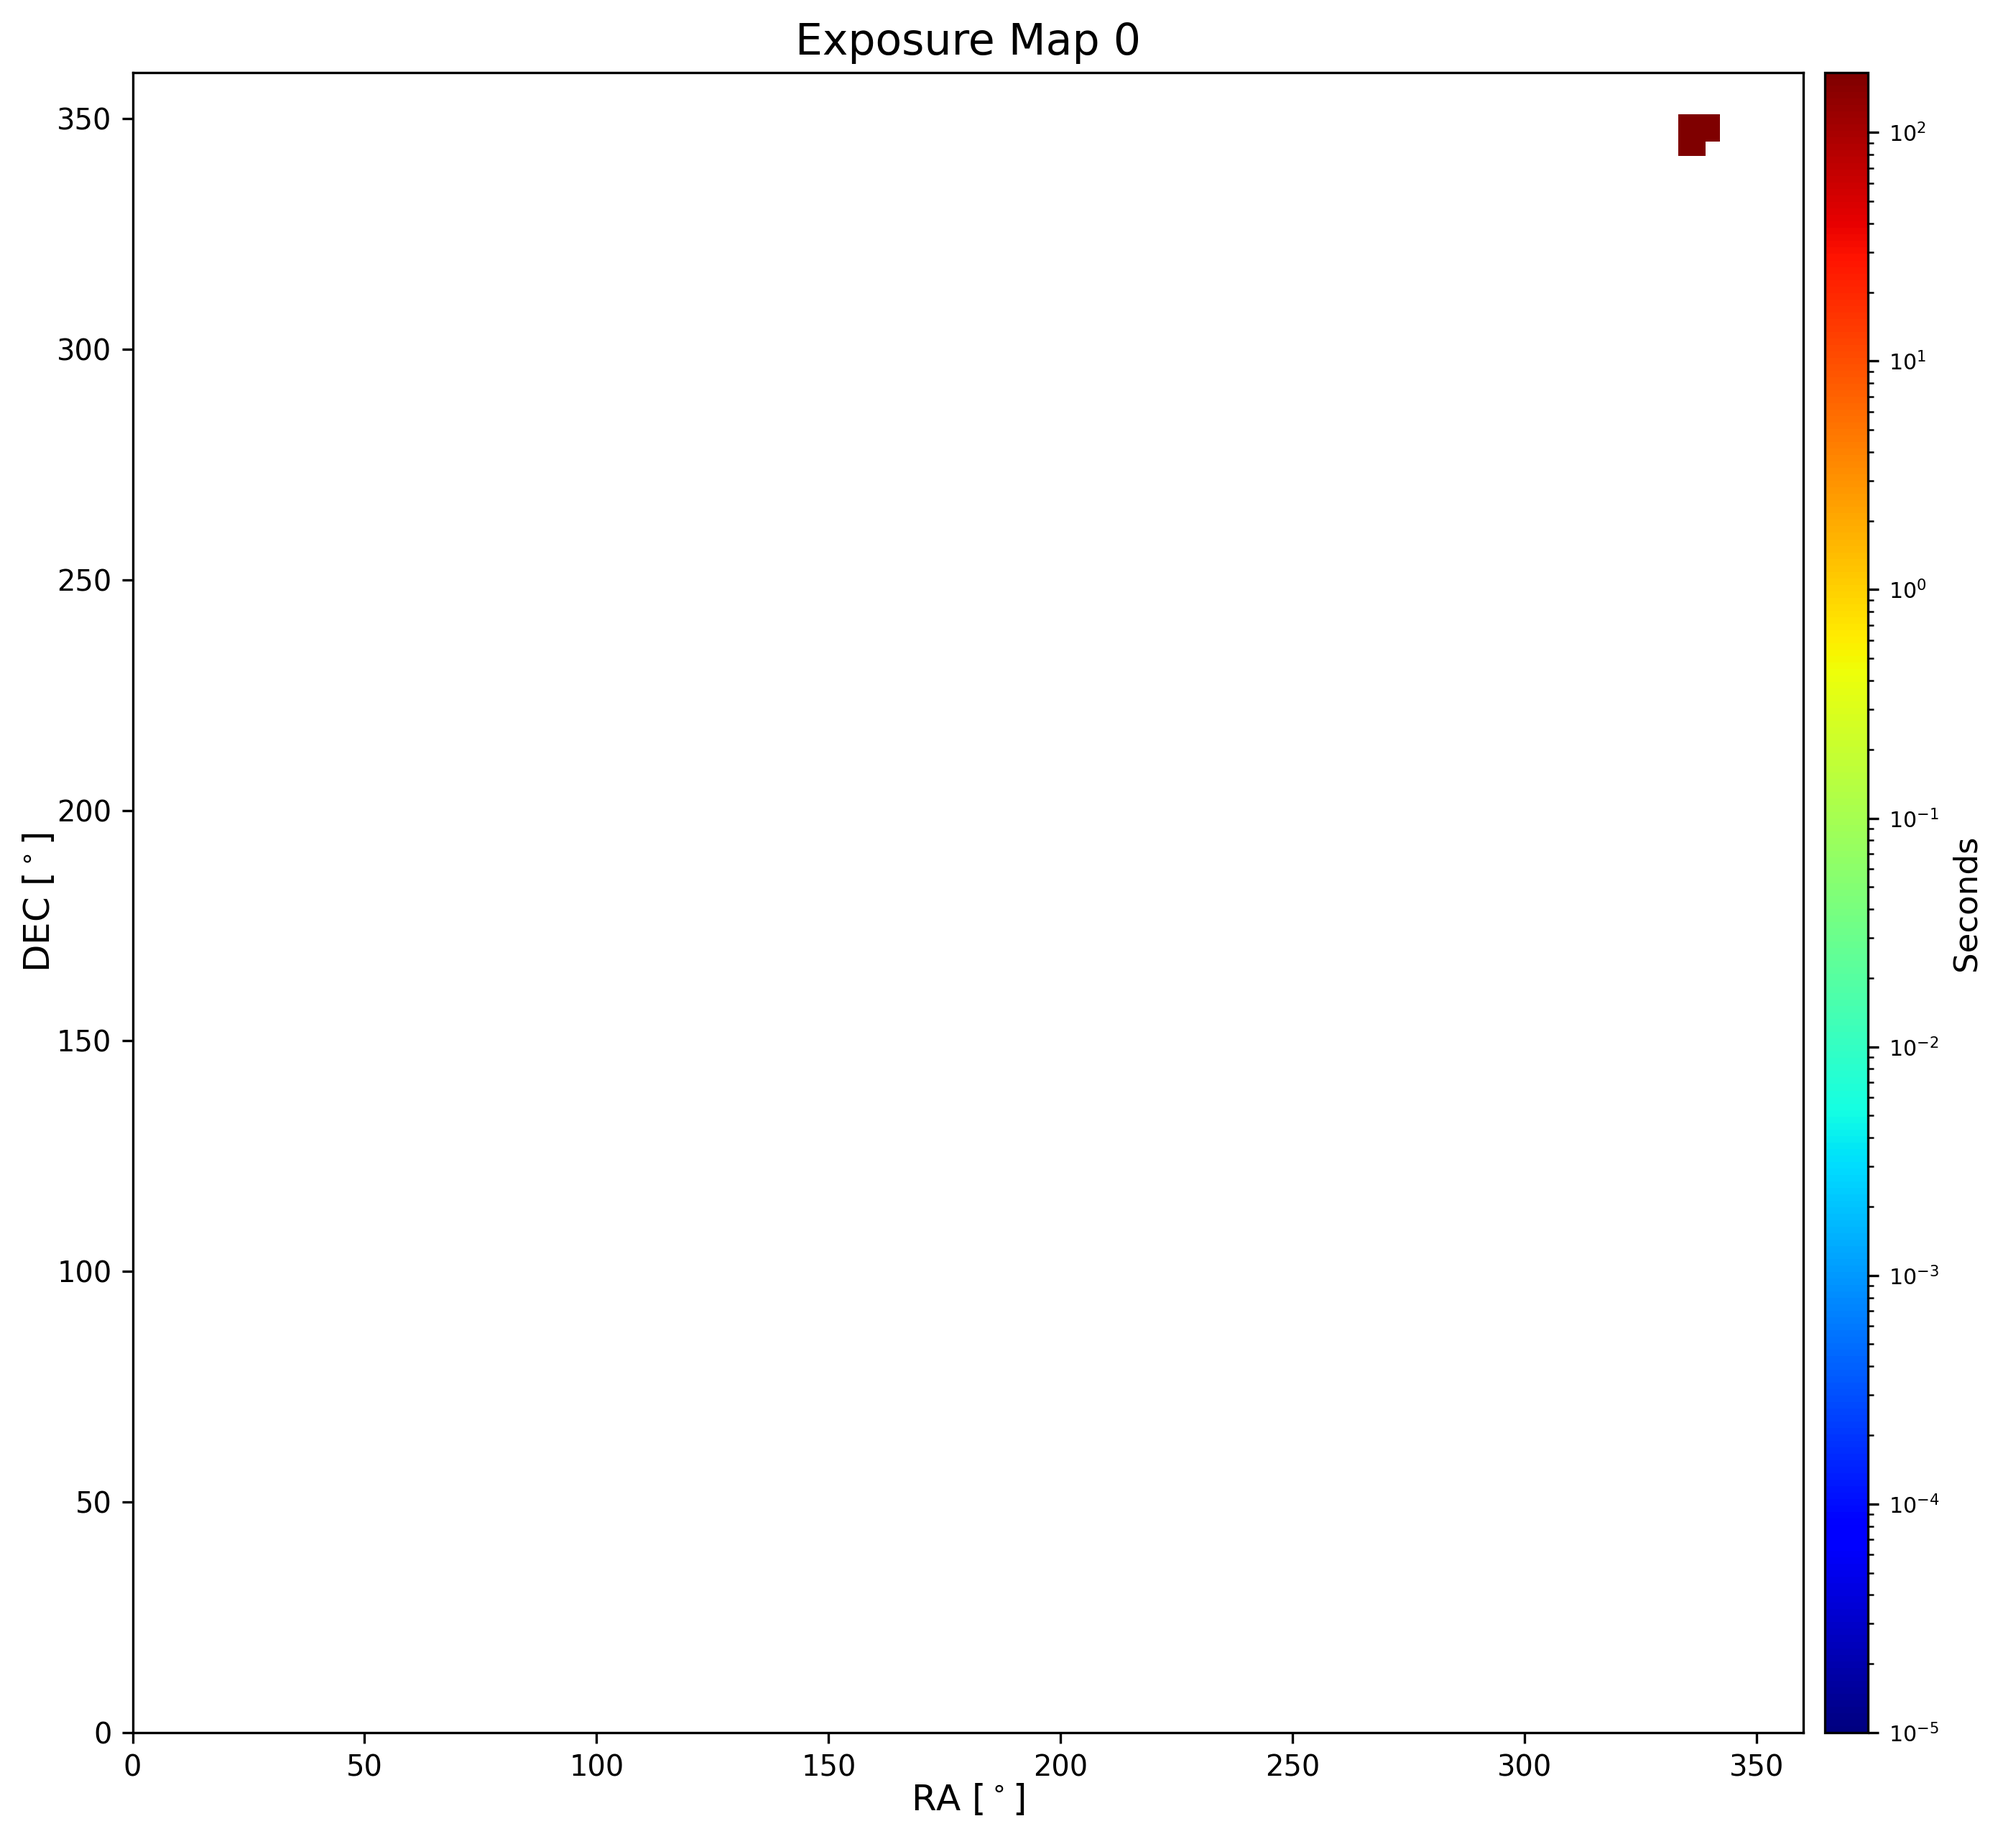
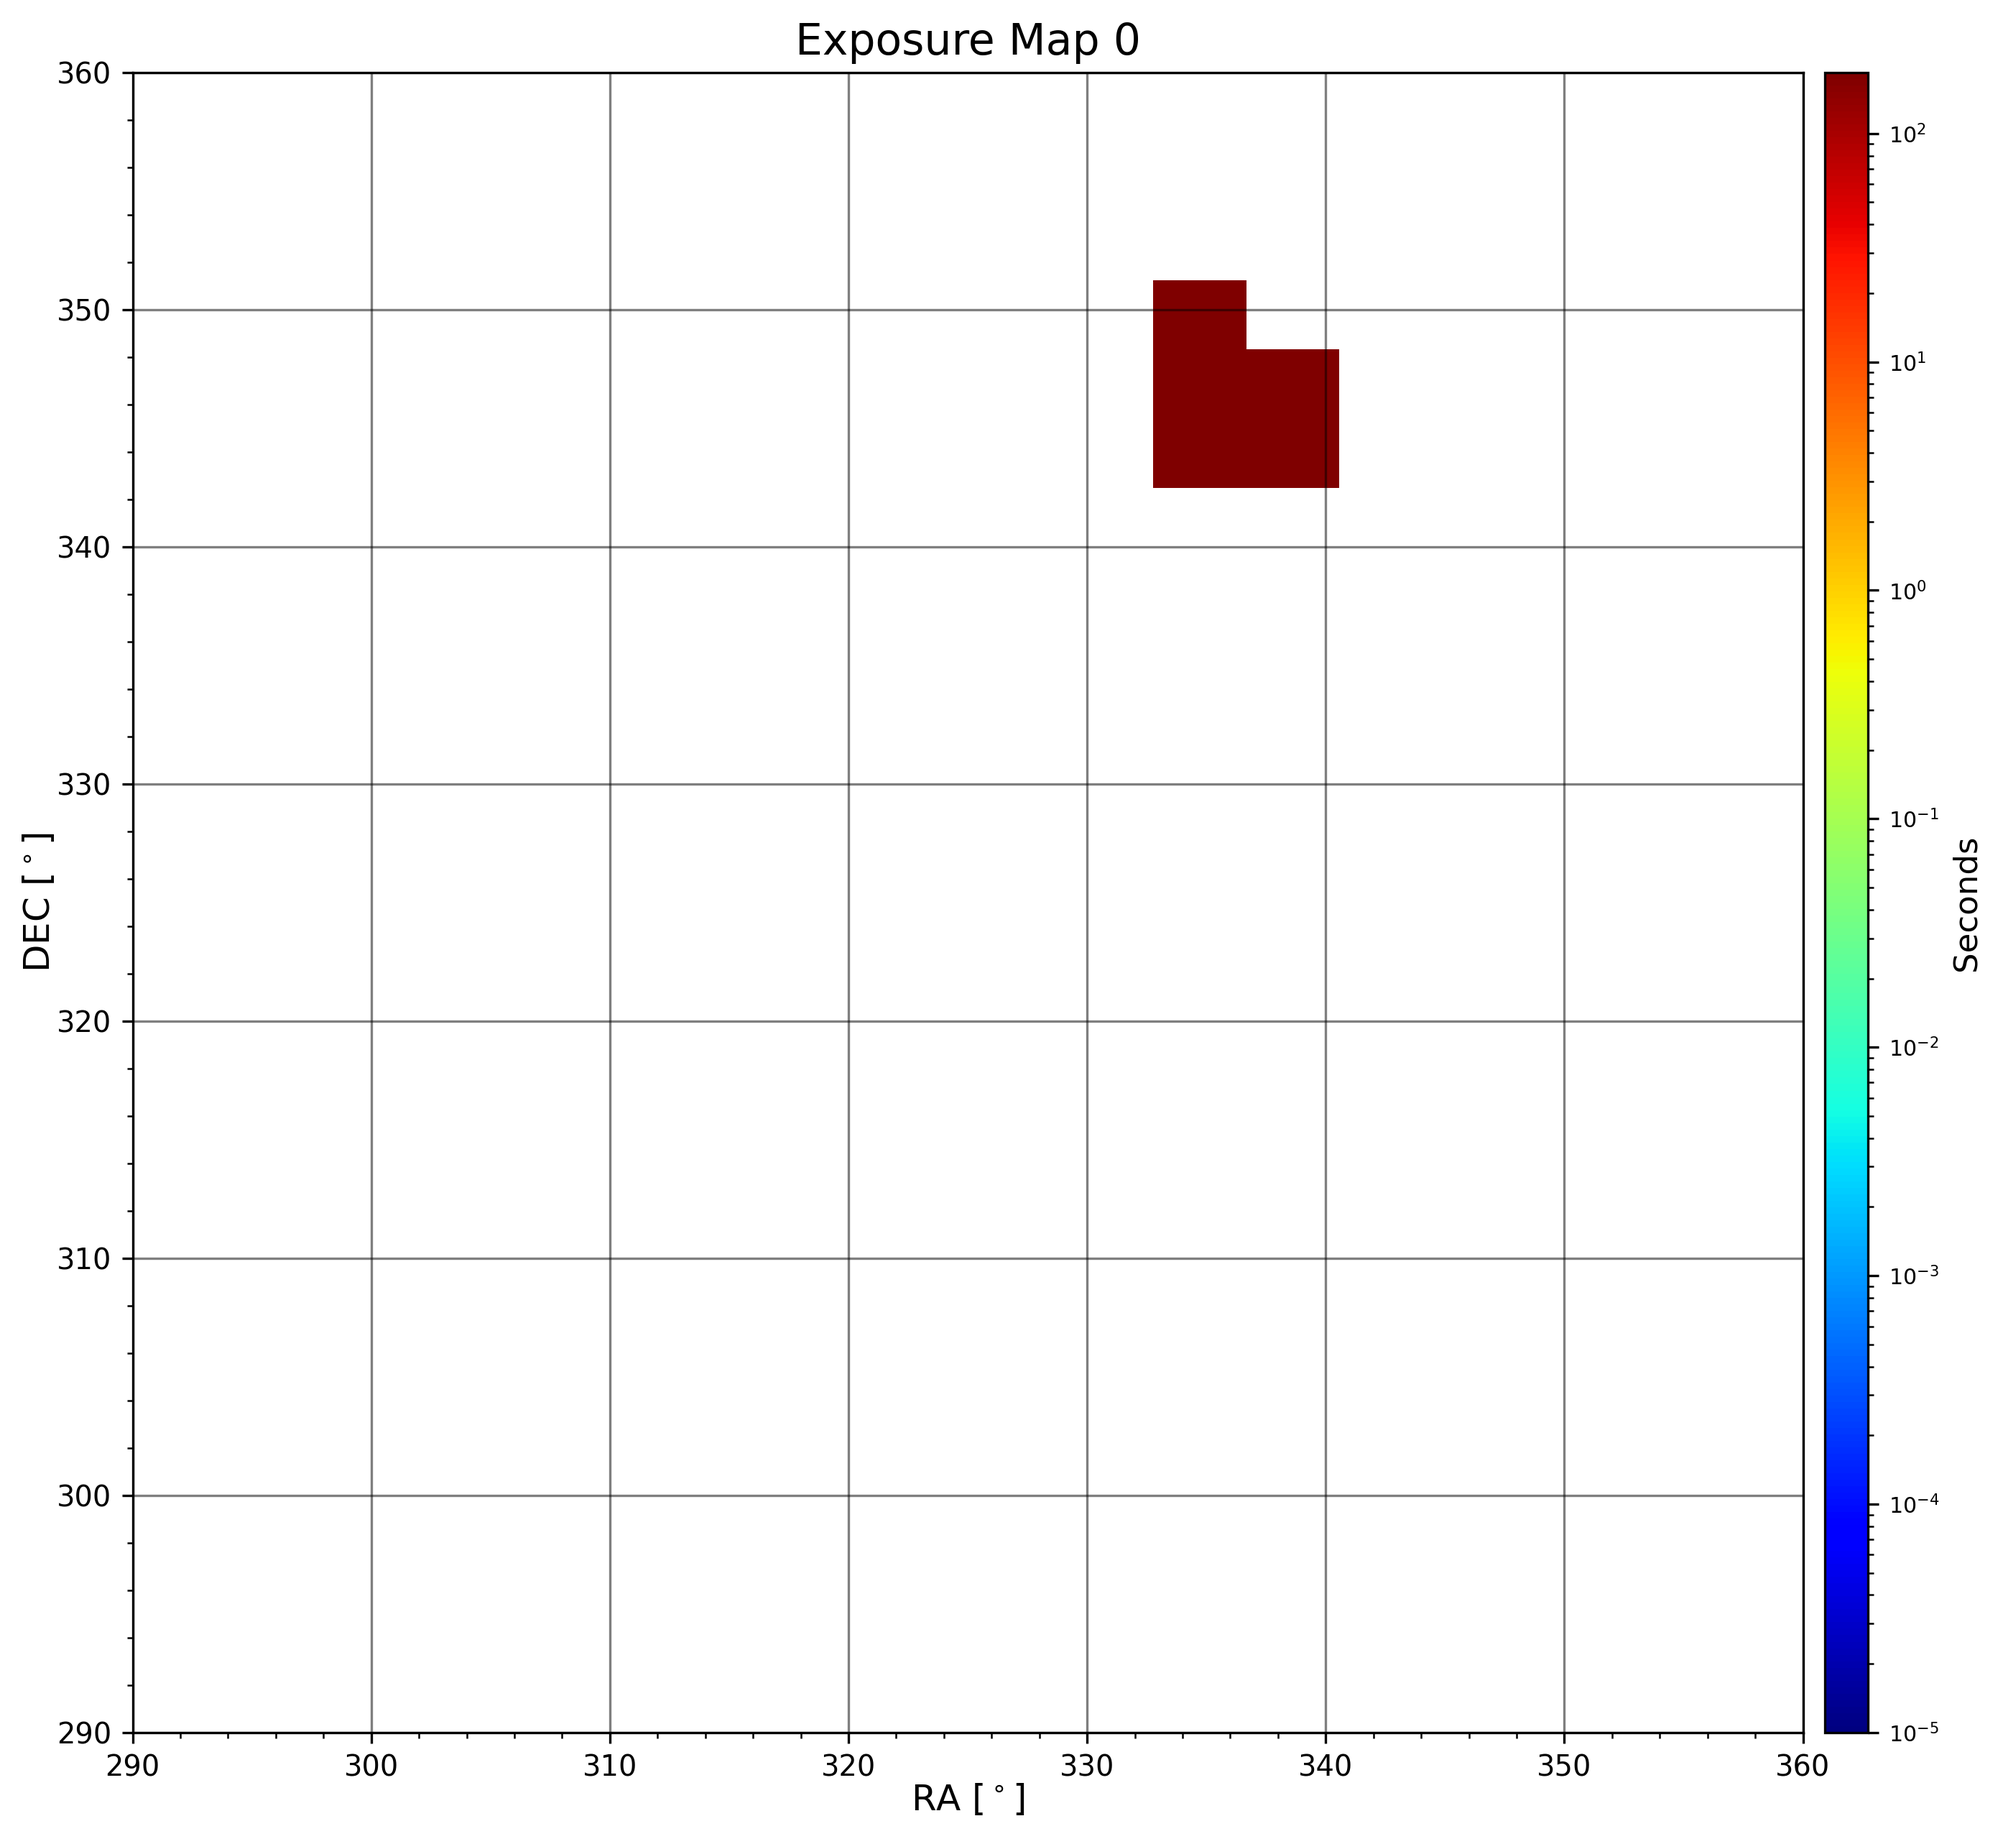
changes in anming

diff --git a/lexi/lexi.py b/lexi/lexi.py
@@ -358,13 +358,41 @@ class LEXI:
         t_integrate, ra-pixels depends on ra_range and ra_res, and dec-pixels depends on
         dec_range and dec_res.
         """
+        # Get spacecraft ephemeris data
+        spc_df = self.get_spc_prams()
+
+        # TODO: REMOVE ME once we start using real ephemeris data
+        # The sample ephemeris data uses column names "mp_ra" and "mp_dec" for look direction;
+        # in the final lexi ephemeris files on CDAweb, this will be called just "ra" and "dec".
+        # Therefore...
+        spc_df["ra"] = spc_df.mp_ra
+        spc_df["dec"] = spc_df.mp_dec
+        # (end of chunk that must be removed once we start using real ephemeris data)
+
+        # Set up coordinate grid
+        ra_arr = np.arange(self.ra_range[0], self.ra_range[1], self.ra_res)
+        dec_arr = np.arange(self.dec_range[0], self.dec_range[1], self.dec_res)
+        ra_grid = np.tile(ra_arr, (len(dec_arr), 1)).transpose()
+        dec_grid = np.tile(dec_arr, (len(ra_arr), 1))
+
         try:
             # Read the exposure map from a pickle file, if it exists
             # Define the folder where the exposure maps are saved
             save_folder = Path(__file__).resolve().parent.parent / "data/exposure_maps"
             t_start = self.t_range[0].strftime("%Y%m%d_%H%M%S")
             t_stop = self.t_range[1].strftime("%Y%m%d_%H%M%S")
-            exposure_maps_file_name = f"{save_folder}/exposure_map_rares_{self.ra_res}_decres_{self.dec_res}_tstep_{self.t_step}_t0_{t_start}_tf_{t_stop}_tint_{self.t_integrate}.npy"
+            ra_start = self.ra_range[0]
+            ra_stop = self.ra_range[1]
+            dec_start = self.dec_range[0]
+            dec_stop = self.dec_range[1]
+            ra_res = self.ra_res
+            dec_res = self.dec_res
+            t_integrate = int(self.t_integrate)
+            exposure_maps_file_name = (
+                f"{save_folder}/lexi_exposure_map_Tstart_{t_start}_Tstop_{t_stop}_RAstart_{ra_start}"
+                f"_RAstop_{ra_stop}_RAres_{ra_res}_DECstart_{dec_start}_DECstop_{dec_stop}_DECres_"
+                f"{dec_res}_Tint_{t_integrate}.npy"
+            )
             exposure_maps = np.load(exposure_maps_file_name)
             print(
                 f"Exposure map loaded from file \033[92m {exposure_maps_file_name} \033[0m\n"
@@ -372,28 +400,12 @@ class LEXI:
         except FileNotFoundError:
             print("Exposure map not found, computing now. This may take a while \n")
 
-            spc_df = self.get_spc_prams()
-
-            # TODO: REMOVE ME once we start using real ephemeris data
-            # The sample ephemeris data uses column names "mp_ra" and "mp_dec" for look direction;
-            # in the final lexi ephemeris files on CDAweb, this will be called just "ra" and "dec".
-            # Therefore...
-            spc_df["ra"] = spc_df.mp_ra
-            spc_df["dec"] = spc_df.mp_dec
-            # (end of chunk that must be removed once we start using real ephemeris data)
-
-            # Set up coordinate grid
-            ra_grid = np.arange(self.ra_range[0], self.ra_range[1], self.ra_res)
-            dec_grid = np.arange(self.dec_range[0], self.dec_range[1], self.dec_res)
-            ra_grid_arr = np.tile(ra_grid, (len(dec_grid), 1)).transpose()
-            dec_grid_arr = np.tile(dec_grid, (len(ra_grid), 1))
-
             # Slice to relevant time range; make groups of rows spanning t_integration
             integ_groups = spc_df[self.t_range[0] : self.t_range[1]].resample(
                 pd.Timedelta(self.t_integrate, unit="s"), origin="start"
             )
             # Make as many empty exposure maps as there are integration groups
-            exposure_maps = np.zeros((len(integ_groups), len(ra_grid), len(dec_grid)))
+            exposure_maps = np.zeros((len(integ_groups), len(ra_arr), len(dec_arr)))
 
             # TODO: Can we figure out a way to do this not in a loop??? Cannot be vectorized...
             # Loop through each pointing step and add the exposure to the map
@@ -402,14 +414,14 @@ class LEXI:
                     # Get distance in degrees to the pointing step
                     # Wrap-proofing: First make everything [0,360), then +-360 on second operand
                     ra_diff = np.minimum(
-                        abs((ra_grid_arr % 360) - (row.ra % 360)),
-                        abs((ra_grid_arr % 360) - (row.ra % 360 - 360)),
-                        abs((ra_grid_arr % 360) - (row.ra % 360 + 360)),
+                        abs((ra_grid % 360) - (row.ra % 360)),
+                        abs((ra_grid % 360) - (row.ra % 360 - 360)),
+                        abs((ra_grid % 360) - (row.ra % 360 + 360)),
                     )
                     dec_diff = np.minimum(
-                        abs((dec_grid_arr % 360) - (row.dec % 360)),
-                        abs((dec_grid_arr % 360) - (row.dec % 360 - 360)),
-                        abs((dec_grid_arr % 360) - (row.dec % 360 + 360)),
+                        abs((dec_grid % 360) - (row.dec % 360)),
+                        abs((dec_grid % 360) - (row.dec % 360 - 360)),
+                        abs((dec_grid % 360) - (row.dec % 360 + 360)),
                     )
                     r = np.sqrt(ra_diff**2 + dec_diff**2)
                     # Make an exposure delta for this span
@@ -428,11 +440,21 @@ class LEXI:
                 save_folder = (
                     Path(__file__).resolve().parent.parent / "data/exposure_maps"
                 )
-                # If the folder doesn't exist, then create it
                 Path(save_folder).mkdir(parents=True, exist_ok=True)
                 t_start = self.t_range[0].strftime("%Y%m%d_%H%M%S")
                 t_stop = self.t_range[1].strftime("%Y%m%d_%H%M%S")
-                exposure_maps_file_name = f"{save_folder}/exposure_map_rares_{self.ra_res}_decres_{self.dec_res}_tstep_{self.t_step}_t0_{t_start}_tf_{t_stop}_tint_{self.t_integrate}.npy"
+                ra_start = self.ra_range[0]
+                ra_stop = self.ra_range[1]
+                dec_start = self.dec_range[0]
+                dec_stop = self.dec_range[1]
+                ra_res = self.ra_res
+                dec_res = self.dec_res
+                t_integrate = int(self.t_integrate)
+                exposure_maps_file_name = (
+                    f"{save_folder}/lexi_exposure_map_Tstart_{t_start}_Tstop_{t_stop}_RAstart_{ra_start}"
+                    f"_RAstop_{ra_stop}_RAres_{ra_res}_DECstart_{dec_start}_DECstop_{dec_stop}_DECres_"
+                    f"{dec_res}_Tint_{t_integrate}.npy"
+                )
                 # Save the exposure map array to a pickle file
                 np.save(exposure_maps_file_name, exposure_maps)
                 print(
@@ -467,7 +489,7 @@ class LEXI:
         # If the first element of exposure_maps shape is 1, then remove the first dimension
         if np.shape(exposure_maps)[0] == 1:
             exposure_maps = exposure_maps[0]
-        return exposure_maps
+        return exposure_maps, ra_arr, dec_arr
 
     def get_sky_backgrounds(self):
         """
@@ -514,7 +536,7 @@ class LEXI:
             dec_range and dec_res.
         """
         # Get exposure maps
-        exposure_maps = self.get_exposure_maps(save_maps=True)
+        exposure_maps, ra_arr, dec_arr = self.get_exposure_maps(save_maps=True)
 
         # If exposure_maps is a 2D array, then add a dimension to it
         if len(np.shape(exposure_maps)) == 2:
@@ -546,7 +568,9 @@ class LEXI:
         )
 
         # Multiply each exposure map (seconds) with the ROSAT background (counts/sec)
-        sky_backgrounds = [e * rosat_resampled for e in exposure_maps]
+        sky_backgrounds = [
+            exposure_map * rosat_resampled for exposure_map in exposure_maps
+        ]
 
         # If requested, save the sky background as an image
         if self.save_sky_backgrounds:
@@ -577,7 +601,7 @@ class LEXI:
         # If the first element of sky_backgrounds shape is 1, then remove the first dimension
         if np.shape(sky_backgrounds)[0] == 1:
             sky_backgrounds = sky_backgrounds[0]
-        return sky_backgrounds
+        return sky_backgrounds, ra_arr, dec_arr
 
     def get_lexi_images(self):
         """
@@ -683,7 +707,7 @@ class LEXI:
 
         # Do background correction if requested
         if self.background_correction_on:
-            sky_backgrounds = self.get_sky_backgrounds()
+            sky_backgrounds, ra_arr, dec_arr = self.get_sky_backgrounds()
             # If sky_backgrounds is a 2D array, then add a dimension to it
             if len(np.shape(sky_backgrounds)) == 2:
                 sky_backgrounds = np.array([sky_backgrounds])
@@ -720,7 +744,7 @@ class LEXI:
         # If the first element of histograms shape is 1, then remove the first dimension
         if np.shape(histograms)[0] == 1:
             histograms = histograms[0]
-        return histograms
+        return histograms, ra_arr, dec_arr
 
     # TODO make FITS files
 
@@ -897,6 +921,10 @@ class LEXI:
             aspect=aspect,
         )
 
+        # Turn on the grid
+        ax.grid(True, color="k", alpha=0.5, linestyle="-")
+        # Turn on minor grid
+        ax.minorticks_on()
         # Set the tick label size
         ax.tick_params(labelsize=0.8 * figure_font_size)
         if show_colorbar:

diff --git a/lexi_test_script.py b/lexi_test_script.py
@@ -9,12 +9,12 @@ lexi = LEXI(
             "2024-07-08T21:47:48",
         ],
         # "t_integrate": 90,  # 10 minutes - spans whole range
-        "t_step": 3,  # 1, #30
+        "t_step": 5,  # 1, #30
         # "ra_range": [325.0, 365.0],
         # "dec_range": [-21.0, 6.0],
-        "ra_range": [0, 360],
-        "dec_range": [0, 360],
-        "ra_res": 3,
+        "ra_range": [290, 360],
+        "dec_range": [290, 360],
+        "ra_res": 4,
         "dec_res": 3,
         # "background_correction_on": False, # Dates do not align
         "save_exposure_maps": True,
@@ -26,8 +26,8 @@ lexi = LEXI(
 # Get space params
 # spaceparams = lexi.get_spc_prams()
 # Get exposure maps
-# expmaps = lexi.get_exposure_maps()
+# expmaps, ra_arr, dec_arr = lexi.get_exposure_maps()
 # Get sky backgrounds
-# skybgs = lexi.get_sky_backgrounds()
+# skybgs, ra_arr, dec_arr = lexi.get_sky_backgrounds()
 # Get background corrected images
-hists = lexi.get_lexi_images()
+hists, ra_arr, dec_arr = lexi.get_lexi_images()
